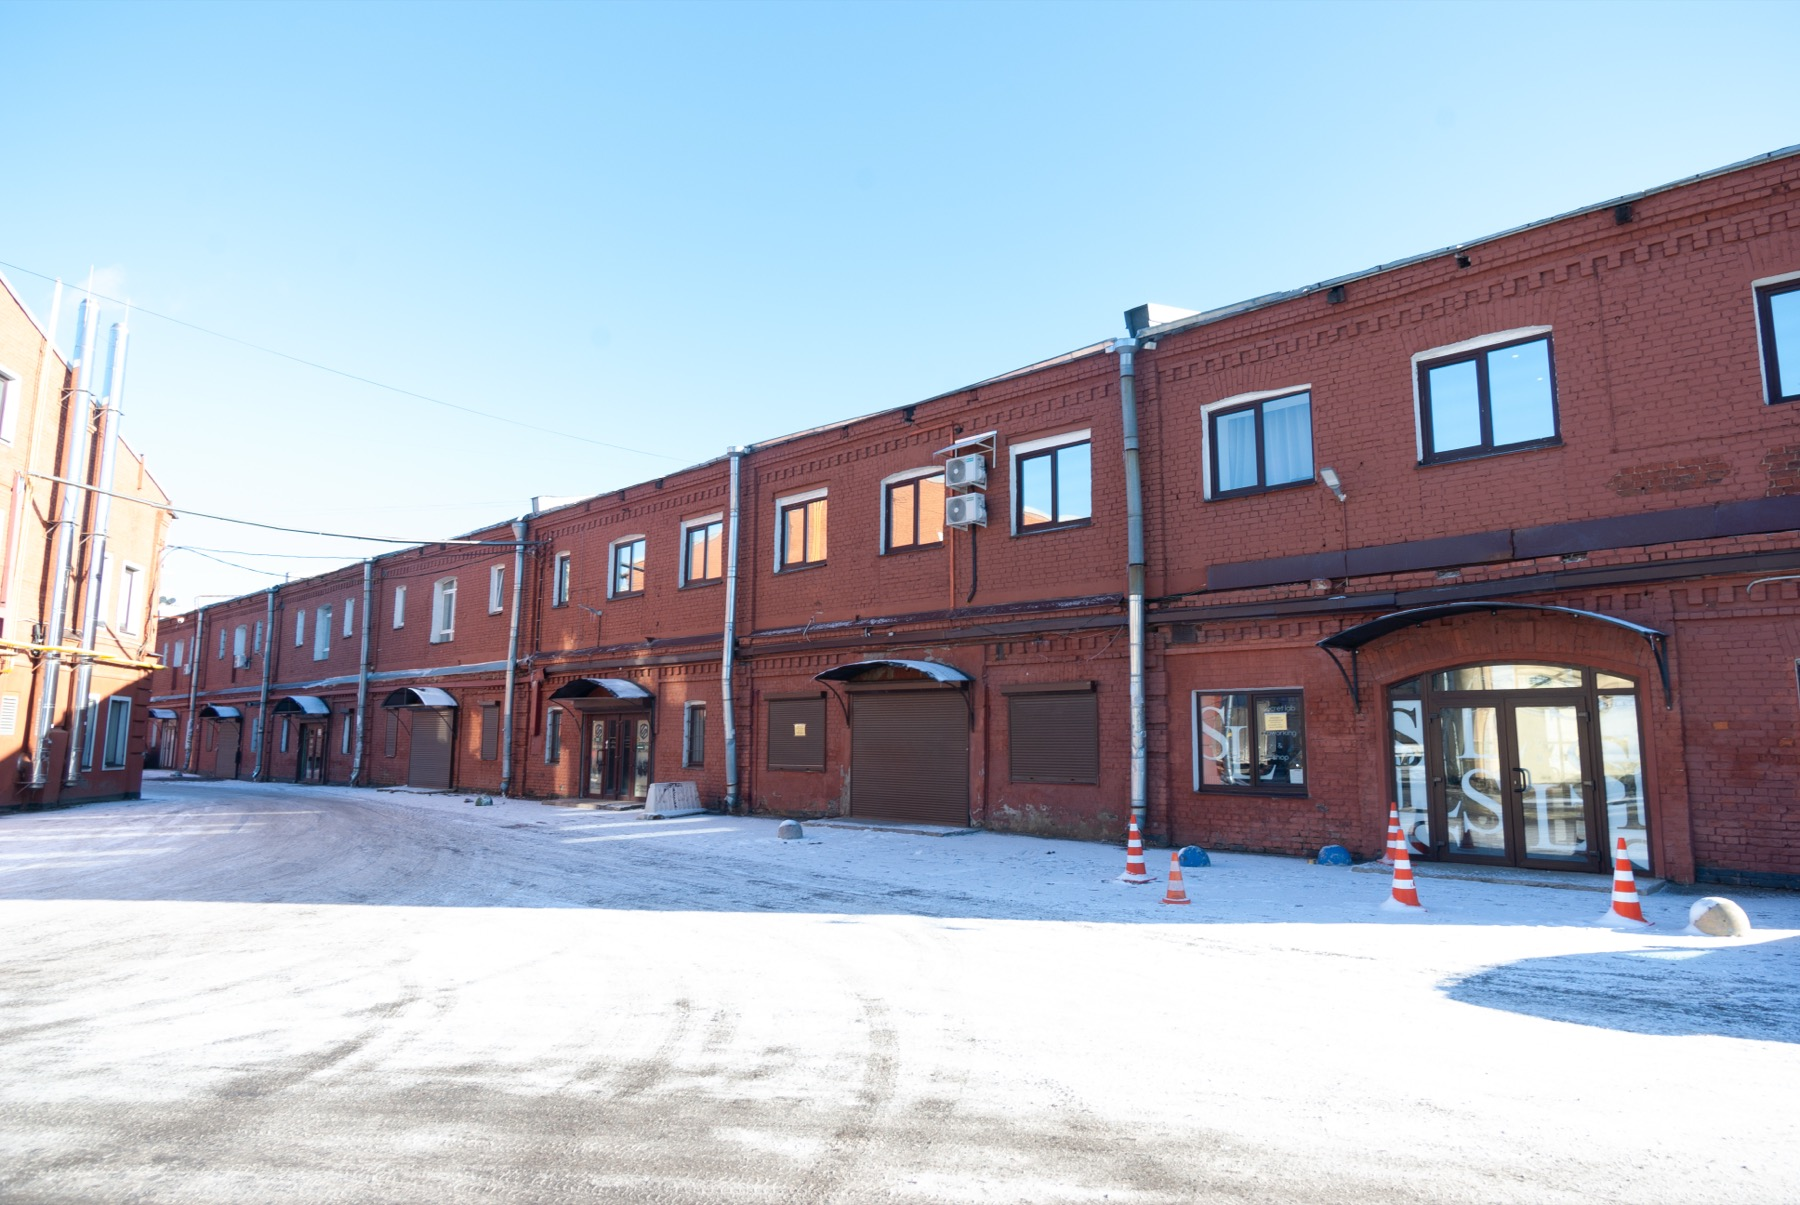
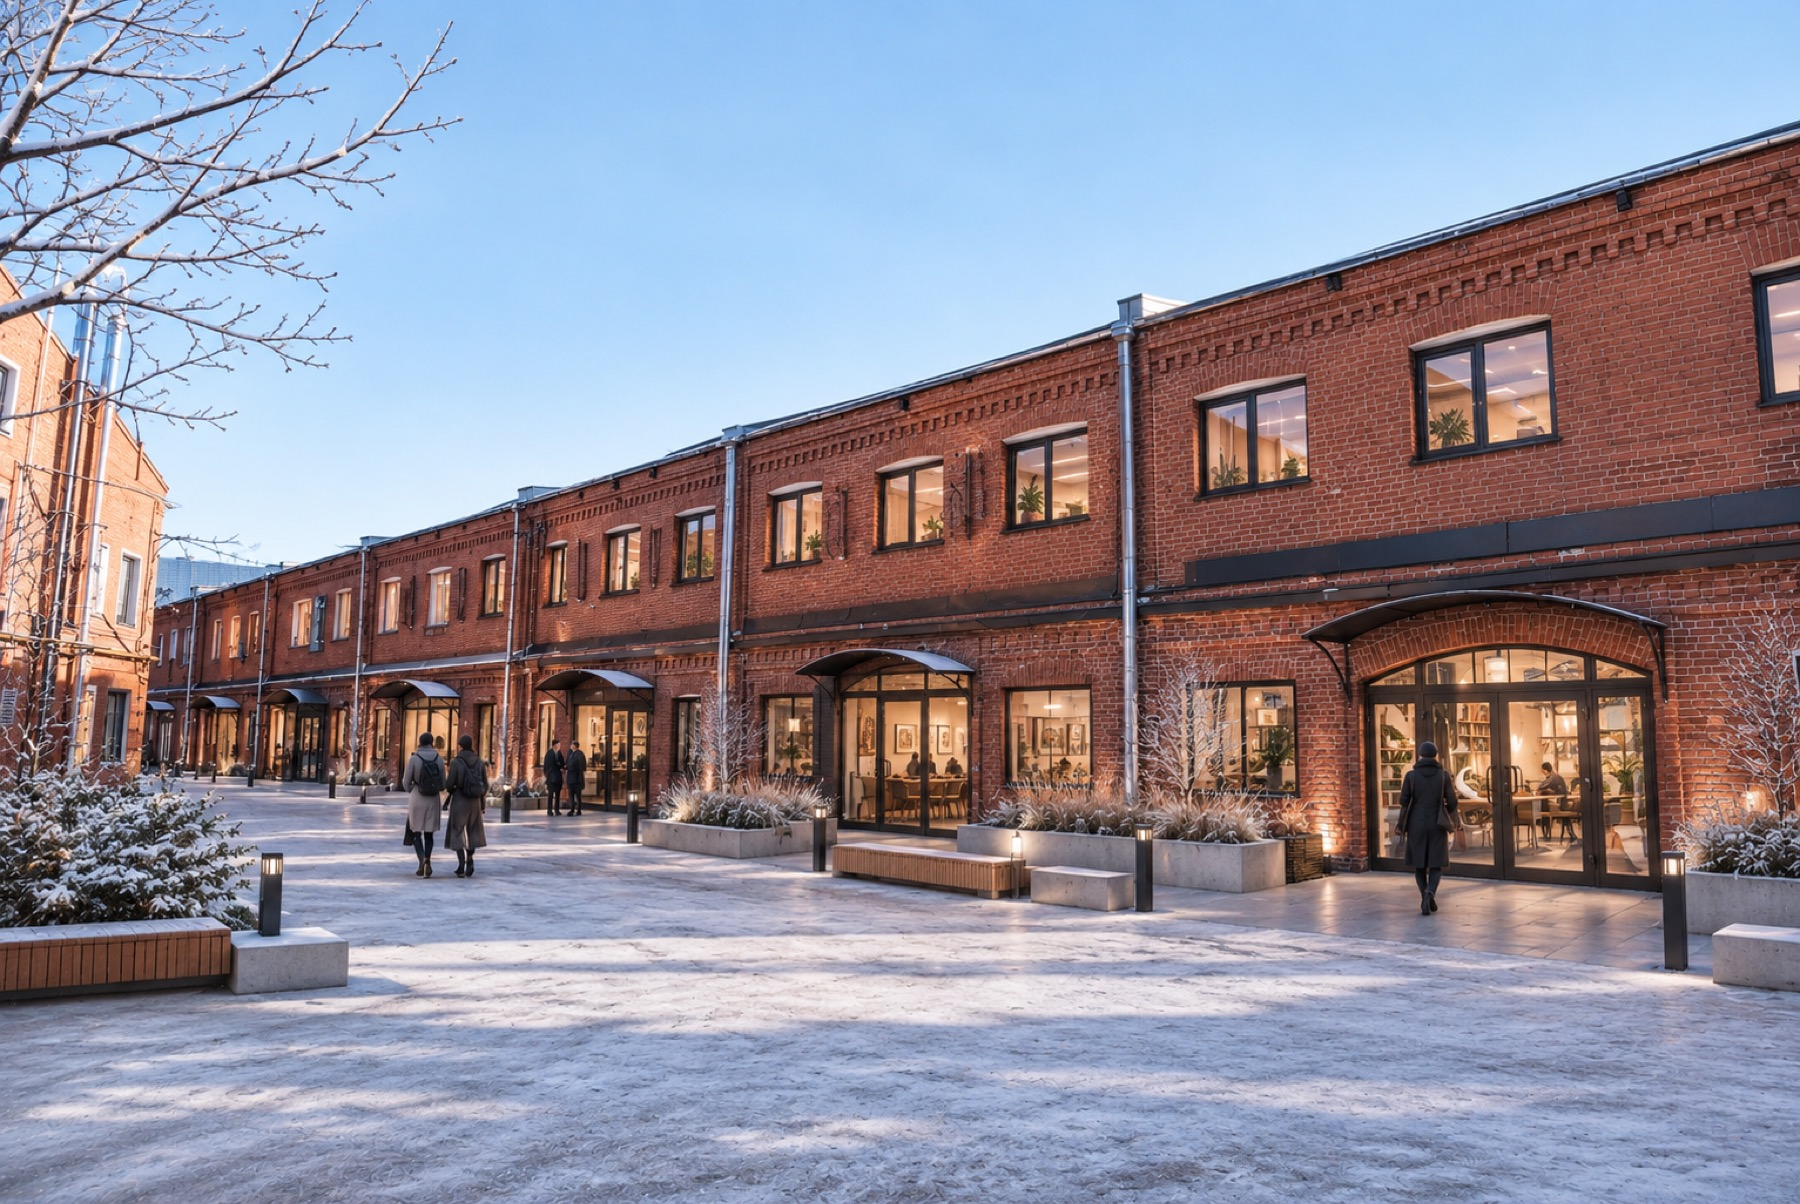
Refresh site photos, green scrolly frame, and canvassing players.

diff --git a/index.html b/index.html
@@ -23,6 +23,7 @@
       <a href="#site">The Site</a>
       <a href="#futures">Futures</a>
       <a href="#affected">Affected</a>
+      <a href="#canvassing">Canvassing</a>
       <a href="#budget">Proposal</a>
     </nav>
     <a class="btn outline" href="#vote">Get Involved</a>
@@ -57,9 +58,10 @@
 
       <div class="scrolly" data-scrolly>
         <div class="scrolly-visual" aria-hidden="true">
-          <img src="assets/brick-facade-web.jpg" alt="" class="scrolly-base" />
+          <img src="assets/brick-facade-web.jpg" alt="" class="scrolly-shot is-active" data-shot="heritage" />
+          <img src="assets/brick-detail-web.jpg" alt="" class="scrolly-shot" data-shot="threat" />
+          <img src="assets/brick-facade-web-green.jpg" alt="" class="scrolly-shot" data-shot="vision" />
           <div class="rail-overlay"></div>
-          <div class="green-overlay"></div>
           <div class="scrolly-caption" data-caption>Heritage fabric intact</div>
         </div>
         <div class="scrolly-steps">
@@ -292,6 +294,40 @@
         <div><dt>Funding</dt><dd>1 400 000 000 ₽</dd></div>
         <div class="gap"><dt>Gap</dt><dd>0 ₽</dd></div>
       </dl>
+    </section>
+
+    <section id="canvassing" class="section light">
+      <div class="section-head center">
+        <p class="eyebrow">Canvassing</p>
+        <h2>Field voices from the site</h2>
+        <p class="sub">Watch the canvassing clips — then leave your own response below.</p>
+      </div>
+      <div class="video-grid">
+        <figure class="video-card">
+          <div class="video-frame">
+            <iframe
+              src="https://vk.com/video_ext.php?oid=-243165454&amp;id=456239017&amp;hd=2"
+              title="Canvassing video on VK"
+              allow="autoplay; encrypted-media; fullscreen; picture-in-picture; screen-wake-lock;"
+              allowfullscreen
+              loading="lazy"
+            ></iframe>
+          </div>
+          <figcaption>VK Video · canvassing cut</figcaption>
+        </figure>
+        <figure class="video-card">
+          <div class="video-frame">
+            <iframe
+              src="https://rutube.ru/play/embed/80eb5b35be65e5dc54ab93c3b969bd4e/?p=lDqzRtsxGUduaeCmJfZGsA"
+              title="Canvassing video on Rutube"
+              allow="clipboard-write; autoplay; fullscreen"
+              allowfullscreen
+              loading="lazy"
+            ></iframe>
+          </div>
+          <figcaption>Rutube · canvassing cut</figcaption>
+        </figure>
+      </div>
     </section>
 
     <section id="vote" class="section dark vote-section">

diff --git a/styles.css b/styles.css
@@ -392,41 +392,41 @@ h2 {
   background: var(--ink);
 }
 
-.scrolly-visual img {
+.scrolly-shot {
+  position: absolute;
+  inset: 0;
   width: 100%;
   height: 68vh;
   object-fit: cover;
-  filter: grayscale(0.15) contrast(1.05);
+  opacity: 0;
+  transition: opacity 550ms ease;
+  filter: contrast(1.04);
 }
 
-.rail-overlay,
-.green-overlay {
-  position: absolute;
-  inset: 0;
-  pointer-events: none;
-  opacity: 0;
-  transition: opacity 450ms ease;
+.scrolly-shot.is-active {
+  opacity: 1;
+  z-index: 1;
 }
 
 .rail-overlay {
+  position: absolute;
+  inset: 0;
+  z-index: 2;
+  pointer-events: none;
+  opacity: 0;
+  transition: opacity 450ms ease;
   background:
     repeating-linear-gradient(105deg, rgba(20, 20, 20, 0.05) 0 14px, rgba(20, 20, 20, 0.55) 14px 22px),
     linear-gradient(180deg, rgba(0, 0, 0, 0.1), rgba(0, 0, 0, 0.55));
 }
 
-.green-overlay {
-  background:
-    radial-gradient(circle at 30% 70%, rgba(70, 95, 75, 0.5), transparent 42%),
-    linear-gradient(180deg, transparent 28%, rgba(50, 75, 58, 0.45));
-}
-
-.scrolly[data-mode="threat"] .rail-overlay,
-.scrolly[data-mode="vision"] .green-overlay { opacity: 1; }
+.scrolly[data-mode="threat"] .rail-overlay { opacity: 1; }
 
 .scrolly-caption {
   position: absolute;
   left: 1rem;
   bottom: 1rem;
+  z-index: 3;
   padding: 0.45rem 0.7rem;
   border: 1px solid rgba(255, 255, 255, 0.25);
   background: rgba(5, 5, 5, 0.72);
@@ -434,6 +434,40 @@ h2 {
   font-size: 0.62rem;
   letter-spacing: 0.16em;
   text-transform: uppercase;
+}
+
+.video-grid {
+  display: grid;
+  grid-template-columns: 1fr 1fr;
+  gap: 1.2rem;
+}
+
+.video-card {
+  margin: 0;
+}
+
+.video-frame {
+  position: relative;
+  overflow: hidden;
+  aspect-ratio: 16 / 9;
+  background: var(--ink);
+  border: 1px solid var(--line-dark);
+}
+
+.video-frame iframe {
+  position: absolute;
+  inset: 0;
+  width: 100%;
+  height: 100%;
+  border: 0;
+}
+
+.video-card figcaption {
+  margin-top: 0.7rem;
+  font-size: 0.68rem;
+  letter-spacing: 0.12em;
+  text-transform: uppercase;
+  color: var(--muted-dark);
 }
 
 .scrolly-steps {
@@ -1043,12 +1077,19 @@ th {
   .budget-totals {
     grid-template-columns: 1fr;
   }
-  .scrolly-visual,
-  .scrolly-visual img {
+  .scrolly-visual {
     position: relative;
     top: 0;
     min-height: 42vh;
     height: 42vh;
+  }
+
+  .scrolly-shot {
+    height: 42vh;
+  }
+
+  .video-grid {
+    grid-template-columns: 1fr;
   }
   .scrolly-steps {
     gap: 1.2rem;

diff --git a/app.js b/app.js
@@ -28,6 +28,7 @@
   const scrolly = document.querySelector("[data-scrolly]");
   const steps = [...document.querySelectorAll(".step")];
   const caption = document.querySelector("[data-caption]");
+  const shots = [...document.querySelectorAll("[data-shot]")];
   const captions = {
     heritage: "Heritage fabric intact",
     threat: "Rail footprint overlaid",
@@ -39,6 +40,9 @@
     steps.forEach((el) => el.classList.toggle("is-active", el === step));
     if (scrolly) scrolly.dataset.mode = mode;
     if (caption) caption.textContent = captions[mode] || captions.heritage;
+    shots.forEach((img) => {
+      img.classList.toggle("is-active", img.dataset.shot === mode);
+    });
   };
 
   if (steps.length && "IntersectionObserver" in window) {
